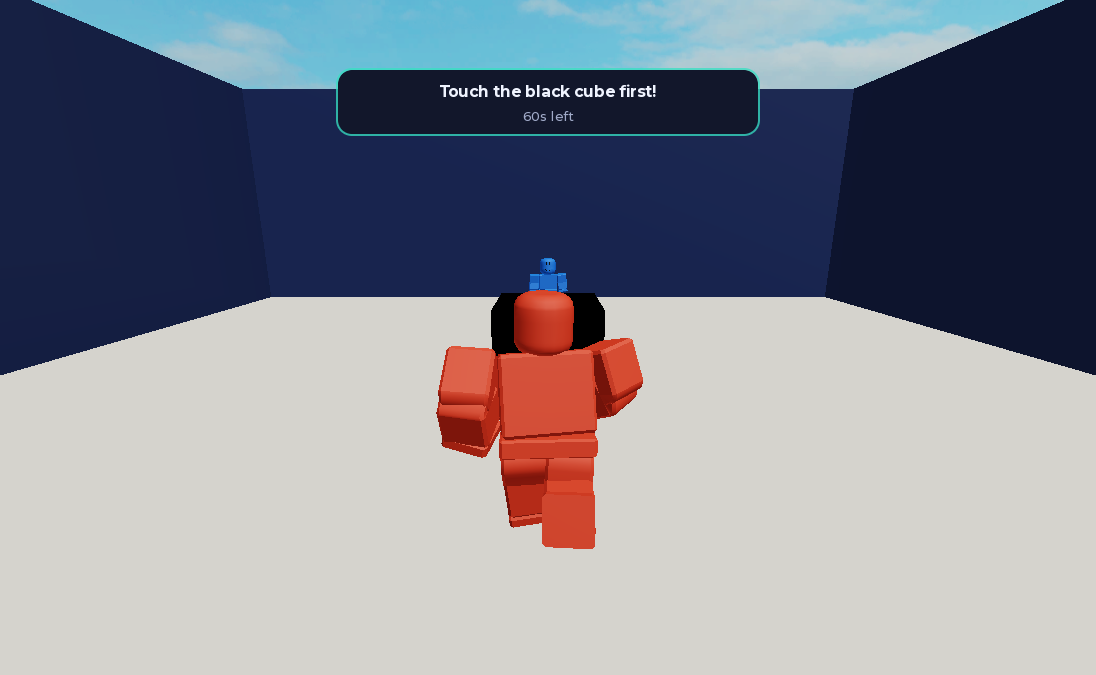
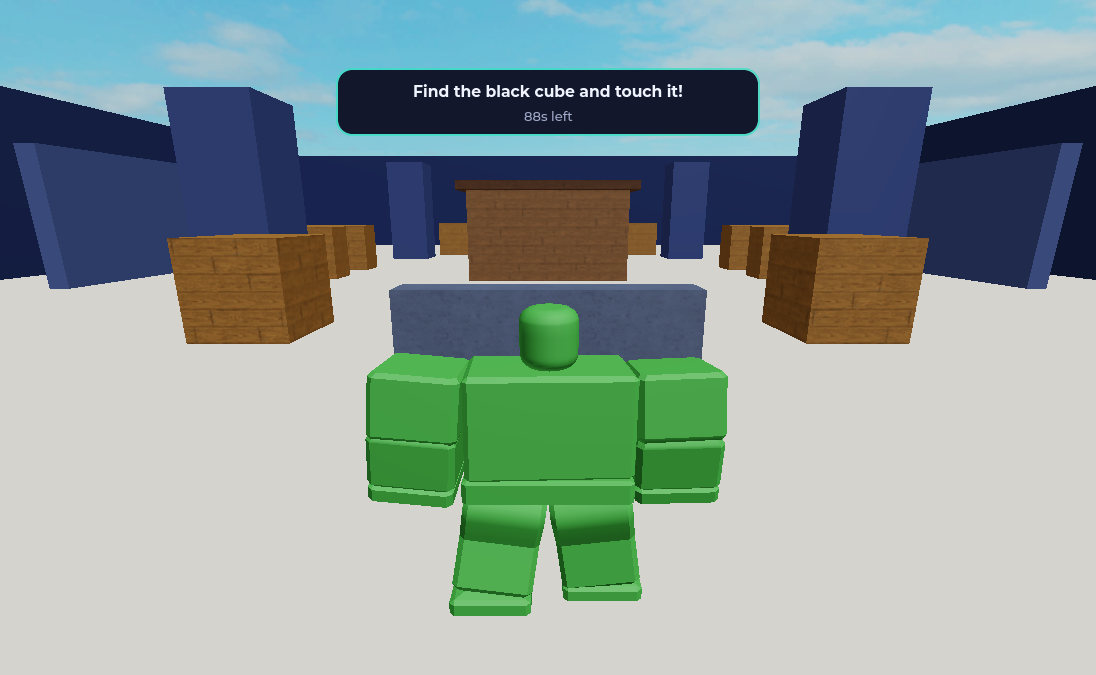
docs for the bigger room

diff --git a/ROADMAP.md b/ROADMAP.md
@@ -14,10 +14,11 @@ Setup is in the [README](README.md). Milestones and decisions are in [PLAN.md](P
    Accept and Decline, and the answer comes back through `InviteAnswer`.
 4. **Reserve a room.** On accept, `InviteService` calls `DuelService.start`, which takes a room
    from `RoomPool`.
-5. **Teleport and transform.** `DuelService` fades the screen, `FormService` swaps each character
-   for a form, and `Arenas` says where each player stands. Players are frozen for the countdown.
-6. **Race.** `DuelService` unfreezes everyone and listens for a touch on the cube. It sends every
-   step to `DuelHud` through `DuelState`, and `DuelCamera` points the camera at the cube.
+5. **Teleport and transform.** `DuelService` fades the screen, `Arenas` hides the cube on one of
+   the room's spots, `FormService` swaps each character for a form, and `Arenas` says where each
+   player stands, facing the middle of the room. Players are frozen for the countdown.
+6. **Search.** `DuelService` unfreezes everyone and listens for a touch on the cube. It sends every
+   step to `DuelHud` through `DuelState`, and `DuelCamera` points the camera the way the form faces.
 7. **Win and go home.** The first touch calls `ScoreService.award`. Everyone reloads into their own
    avatar on the hub spawn, and the room goes back to `RoomPool`.
 
@@ -38,7 +39,7 @@ src/
     init.server.luau                starts everything in order
     Duels/
       DuelService.luau              runs a duel from start to finish
-      Arenas.luau                   builds the rooms, finds the cube and spawn points
+      Arenas.luau                   builds the rooms, hides the cube, finds the spawn points
       RoomPool.luau                 which rooms are reserved (pure logic)
     Forms/
       FormService.luau              picks forms and swaps the character
@@ -88,6 +89,7 @@ Rojo builds the place from these files. `default.project.json` is the map betwee
 | Add a real monster | `assets/forms`, see [Adding a monster](#adding-a-monster) |
 | Change the hub map | `default.project.json`, under `Workspace` |
 | Change the duel room | `assets/arenas/ArenaTemplate.model.json` |
+| Add or move a cube hiding spot | the `CubeSpots` folder in `ArenaTemplate.model.json` |
 | Change how you win | `goLive` in `src/server/Duels/DuelService.luau` |
 | Change what ends a duel | the calls to `finish` in `DuelService.luau` |
 | Change who can invite whom | `onSend` in `InviteService.luau` and `send` in `InviteBook.luau` |
@@ -98,8 +100,13 @@ Rojo builds the place from these files. `default.project.json` is the map betwee
 | Change invite error messages | `MESSAGES` in `src/client/Common/Toast.luau` |
 | Add a remote event | `default.project.json`, under `Remotes`, then rebuild |
 
-The room needs parts named exactly `Cube`, `SpawnA` and `SpawnB`, because `Arenas.luau` finds them
-by name.
+The room is 128 by 128 studs with cover in the middle: a hut, two alcoves, pillars, crates and low
+walls. It needs parts named exactly `Cube`, `SpawnA` and `SpawnB`, because `Arenas.luau` finds them
+by name. Each part in the `CubeSpots` folder is a place the cube can hide. Keep them invisible with
+CanCollide, CanTouch and CanQuery off, and mirror them so neither spawn is closer on average. The
+cube never lands on the same spot twice in a row.
+
+![The room from above, cube between the south crates](docs/screenshots/room-top.png)
 
 ## Settings
 
@@ -115,8 +122,8 @@ All in `src/shared/Config.luau`:
 | `ROOM_ORIGIN` | 3000, 100, 0 | Where the rooms start, far enough that the hub can't see them |
 | `ROOM_SPACING` | 200 | Studs between rooms |
 | `FADE_TIME` | 0.4 | Seconds for the screen fade |
-| `COUNTDOWN` | 3 | Seconds before the race starts |
-| `DUEL_TIMEOUT` | 60 | Seconds before a duel ends with no winner |
+| `COUNTDOWN` | 3 | Seconds before the search starts |
+| `DUEL_TIMEOUT` | 90 | Seconds before a duel ends with no winner |
 | `RESULT_TIME` | 3 | Seconds the result stays on screen |
 | `PLACEHOLDER_FORMS` | Ember, Tide, Moss | Stand-ins used while `assets/forms` has no models |
 

diff --git a/PLAN.md b/PLAN.md
@@ -28,6 +28,8 @@ Each one ends with something you can open and try.
 - [x] **M2 - Full duel loop.** Room pool, teleport, form swap, black cube, Wins on the
       scoreboard, return to hub, room released. Handles leaving and resetting mid-duel.
       Try it: same 2-player test. This finishes the friends' task list.
+- [x] **Bigger room.** 128 by 128 room with a hut, alcoves, pillars, crates and low walls.
+      The cube hides at one of 5 spots, never the same one twice in a row. 90 seconds a duel.
 - [ ] **M3 - Go live (needs Niv).** Publish as private, invite friends, test on real
       servers, save Wins with DataStore. Stops for Niv: publishing needs their account.
 - [ ] **M4 - Friends' content.** Drop-in monster models and arenas, then whatever the
@@ -42,6 +44,8 @@ Each one ends with something you can open and try.
 - Everything is checked on the server. The client only asks.
 - Logic with no Roblox calls lives in pure modules, so Lune can test it from the terminal.
 - Only touching the cube gives a point. Dying, leaving and time running out end the duel with no point.
+- The cube hides behind cover and spawns face the middle of the room, so a duel is a search, not
+  a straight run. Hiding spots are mirrored so neither spawn has an edge.
 - Forms are full character swaps (`player.Character = model`), the same path a friend's
   rigged monster will use. Placeholders are recoloured default rigs.
 
@@ -51,6 +55,9 @@ Update this section whenever work stops, so a fresh session can continue.
 
 - M1 and M2 are done and verified on 2026-11-02: 11 unit tests, 56 checks in the two-player
   Studio test, screenshots reviewed. Next is M3, which needs Niv.
+- The bigger room is on the `bigger-arena` branch, verified on 2026-11-10 with 58 checks and
+  a top-down screenshot. The friends' next ask is a fighting engine (HP, damage, hitboxes, a
+  toy blaster), planned on `toy-blaster` on top of it.
 - The code is on GitHub at https://github.com/nivsasi1/cahotic-blox. From here all work goes on
   branches with pull requests into `main`. [ROADMAP.md](ROADMAP.md) maps the code.
 - Not covered by the automated test: a real mouse click and the hover highlight (the test calls

diff --git a/README.md b/README.md
@@ -1,12 +1,12 @@
 # Morph Duels
 
-A Roblox game. Walk up to a player in the hub, invite them to a duel, and race them to a black cube
-in your own room, each in a different form. The winner gets a point on the scoreboard.
+A Roblox game. Walk up to a player in the hub, invite them to a duel, and race them to find a black
+cube hidden in your own room, each in a different form. The winner gets a point on the scoreboard.
 
 Morph Duels is a working title. The idea is inspired by the show Chaotic, but the game needs its own
 name, creatures and art before it goes public on Roblox.
 
-![Racing to the cube](docs/screenshots/4-race.png)
+![Searching for the cube](docs/screenshots/4-race.png)
 
 ## What works now
 
@@ -14,7 +14,8 @@ name, creatures and art before it goes public on Roblox.
 - An invite window at the top of the screen, and an Accept or Decline popup for the other player.
 - 8 duel rooms that are reserved and released automatically.
 - Teleporting into a room and turning into a different form.
-- A race to the black cube, with Wins on the scoreboard.
+- A 128 by 128 room with cover, where the black cube hides at a different spot each duel.
+- 90 seconds to find it first, with Wins on the scoreboard.
 - Dying, leaving or running out of time ends the duel with no point.
 
 Combat, powers, DNA, other worlds and monster models are not in yet. Those come next, see
